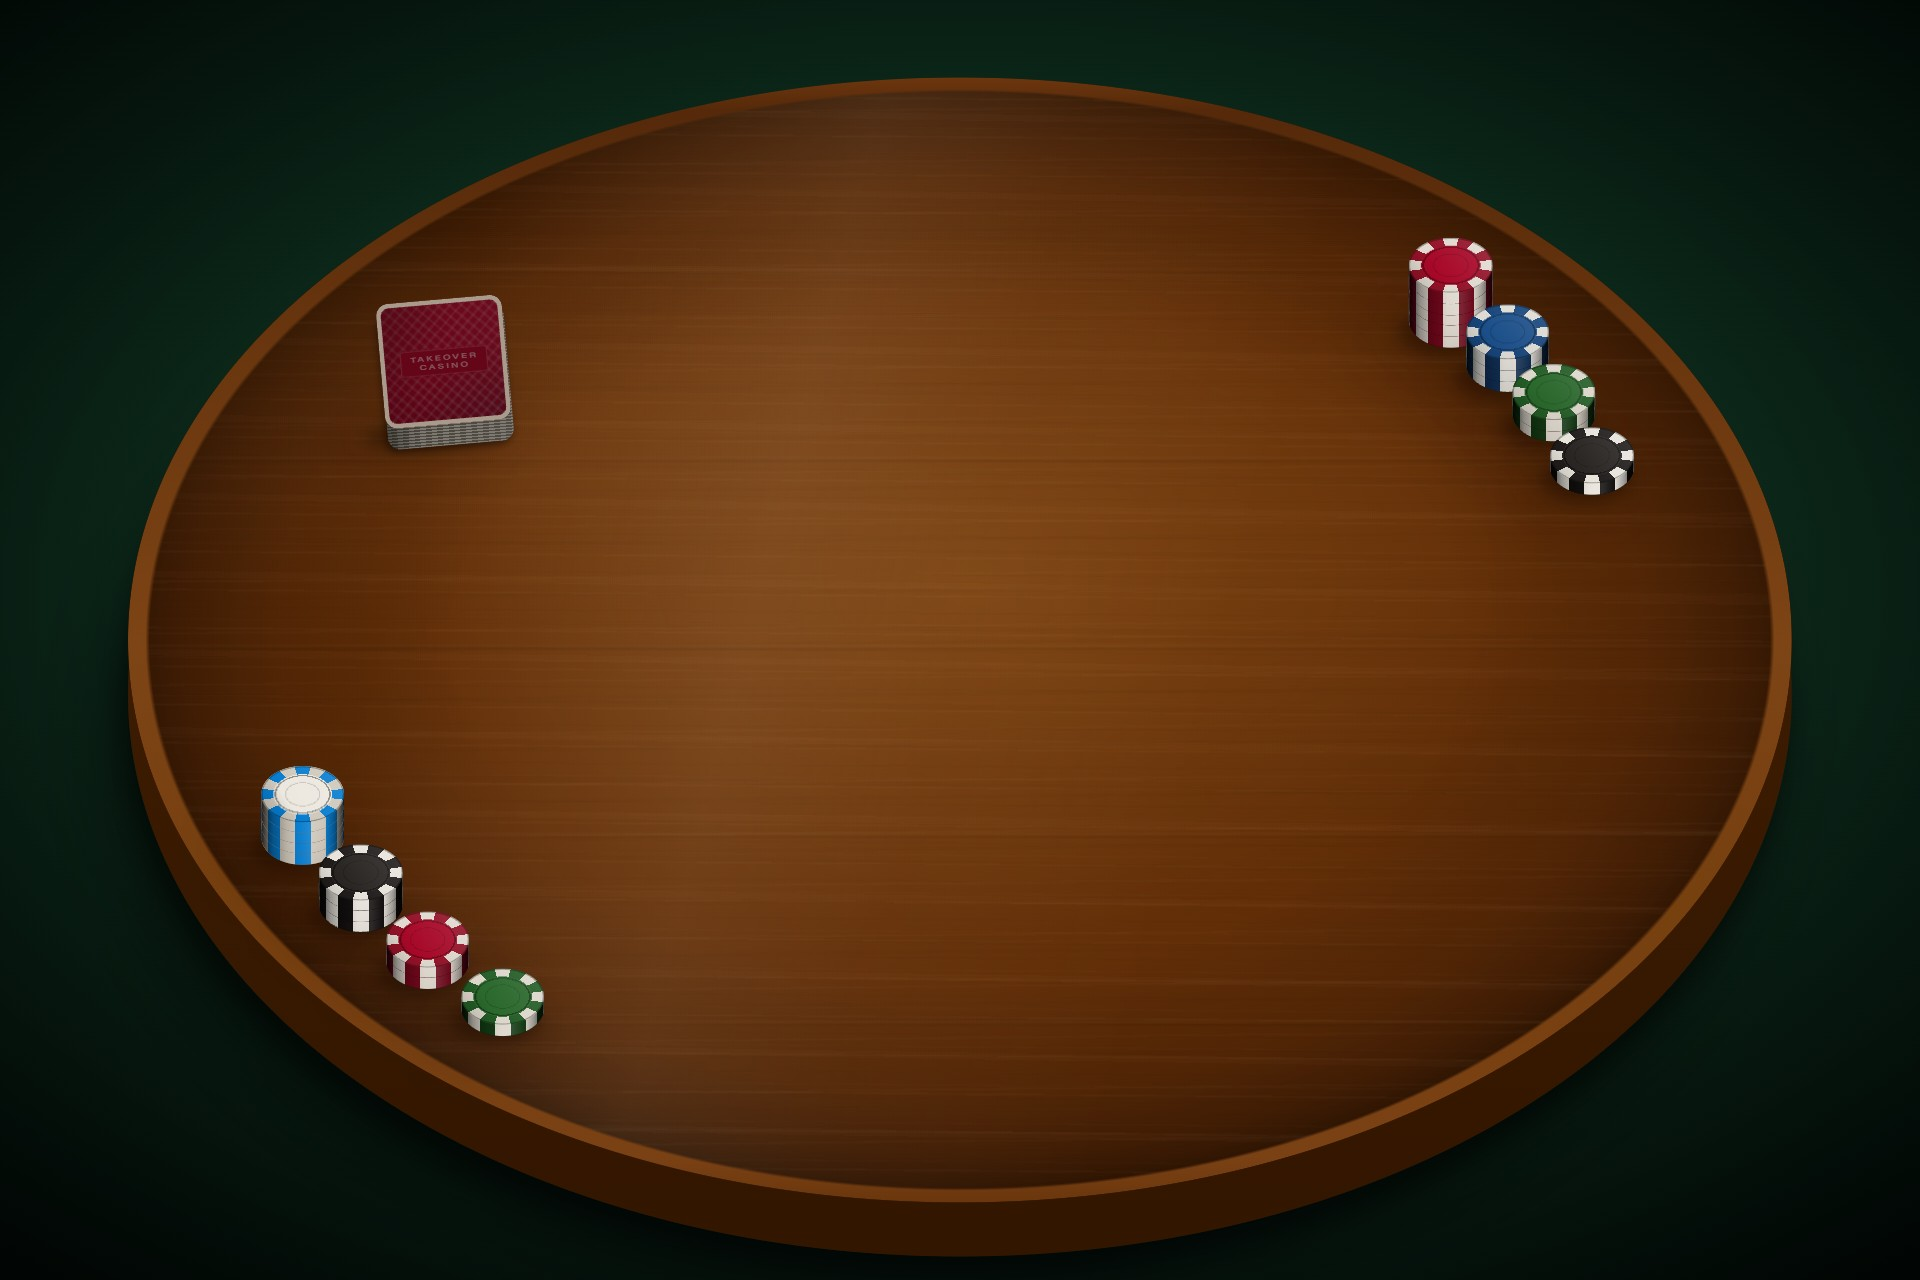
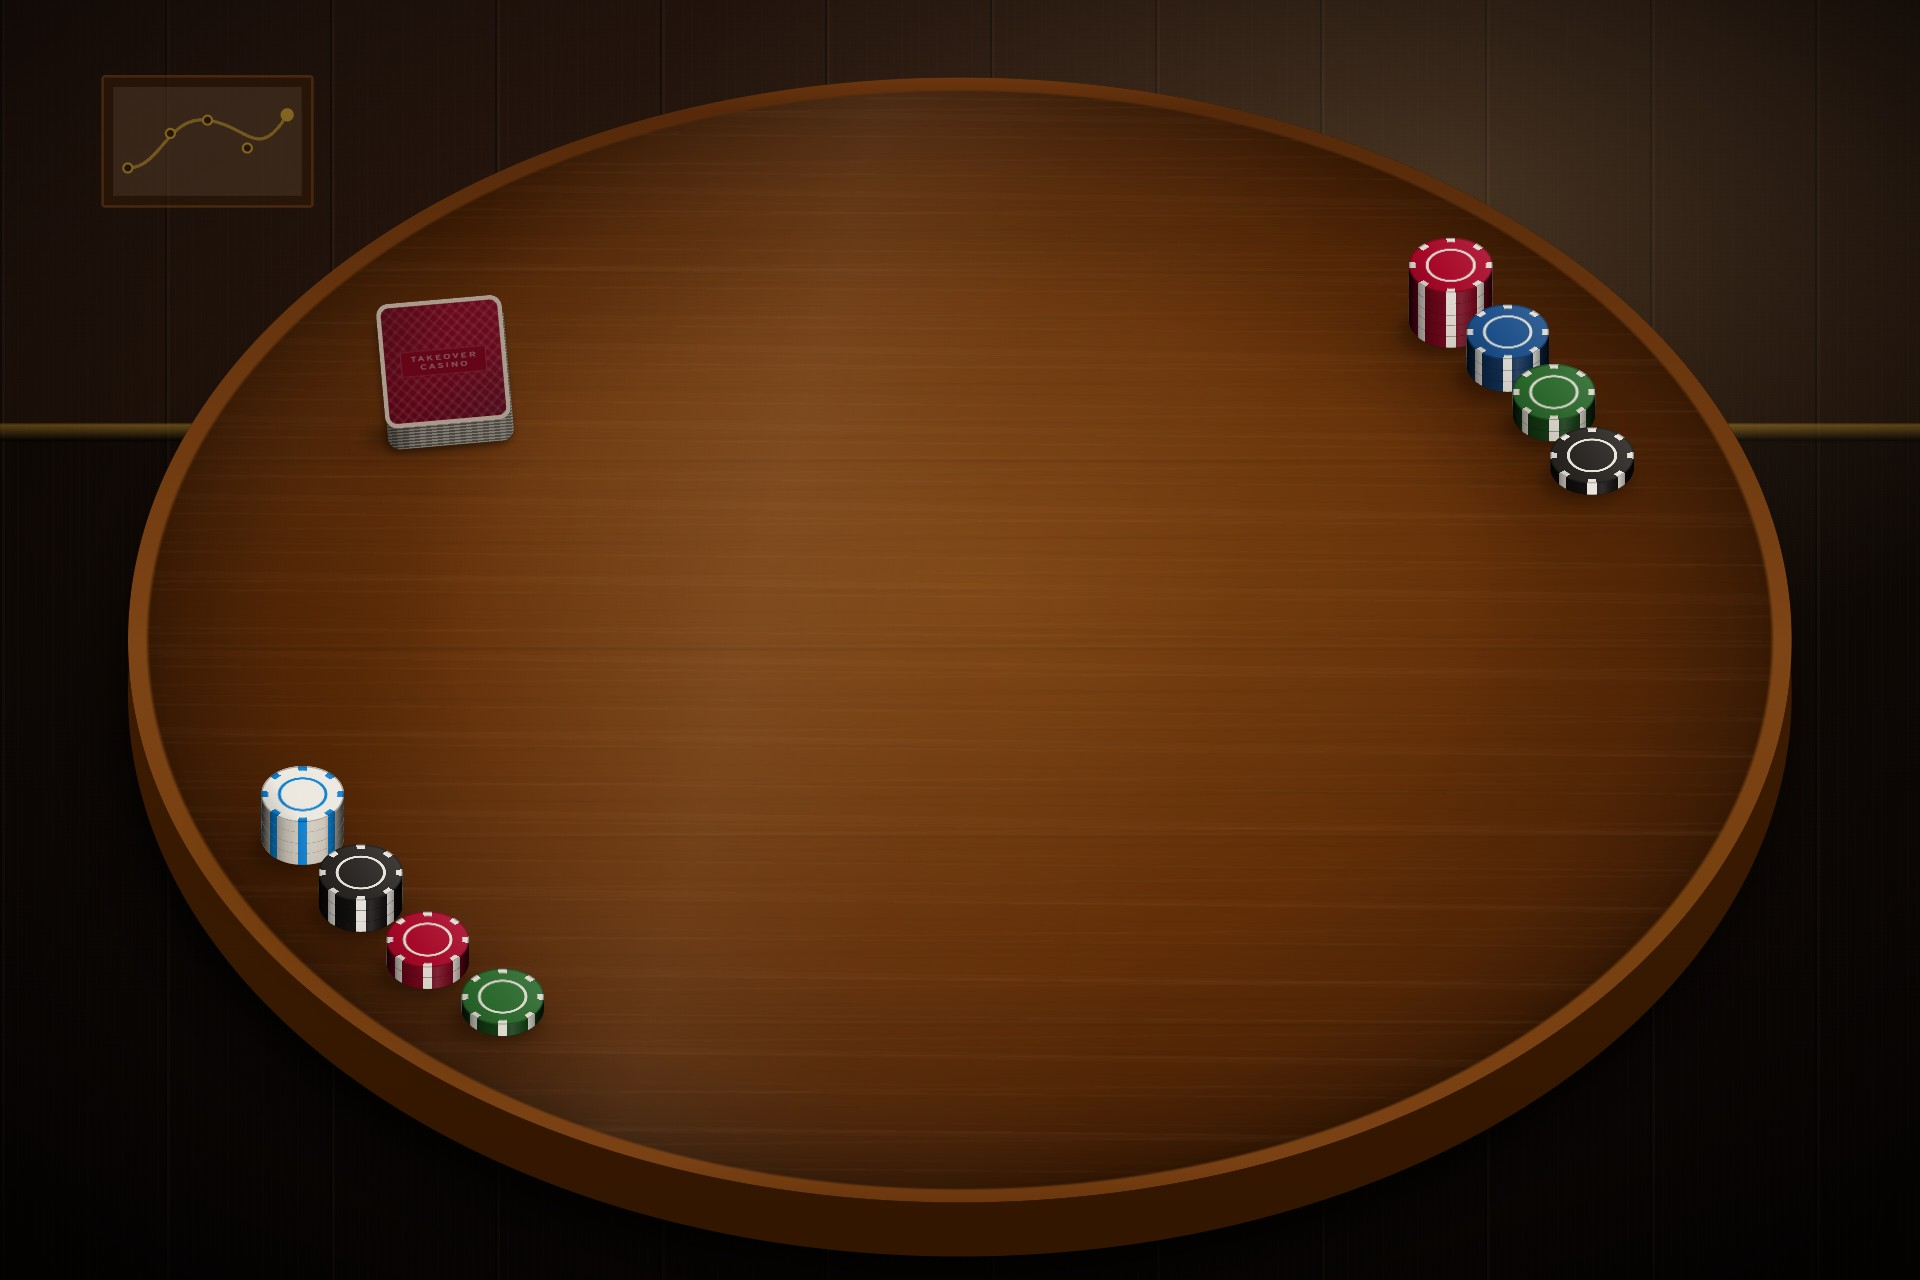
Re-render the lobby tile from the overhauled game
scripts/tile-art.mjs again: the background is now the table in the back
room with the new chips, where it was the green void; the foreground is the
current deck and chips. 1.34 MB together, under Stake's 3 MB. The README's
sizes and render date follow.

diff --git a/submission/README.md b/submission/README.md
@@ -17,11 +17,11 @@ Filenames are **mandated** by Stake and must not be changed.
 
 | File | Requirement | Ours |
 |---|---|---|
-| `RideTheBus-BG.jpg` | Environmental background, high-resolution PNG or JPG | 1920 × 1280, 152 KB |
+| `RideTheBus-BG.jpg` | Environmental background, high-resolution PNG or JPG | 1920 × 1280, 173 KB |
 | `RideTheBus-FG.png` | Feature character / key item, transparent PNG | 1600 × 1600, 1.2 MB |
 | `TakeoverCasino-Logo.png` | Provider logo, transparent PNG, legible small | 710 × 710, 726 KB |
 
-**Background + foreground must not exceed 3 MB combined.** Ours are 1.32 MB,
+**Background + foreground must not exceed 3 MB combined.** Ours are 1.34 MB,
 and `scripts/tile-art.mjs` refuses to write a pair over the limit. There is no
 documented cap on the provider logo.
 
@@ -30,7 +30,9 @@ documented cap on the provider logo.
 photographs `?dev_tile=fg` - the J, Q, K and house Ace the board deals, the
 deck's back and two chips, on a transparent ground - and the live table with
 the board's furniture hidden. Change the cards or the table and re-run it; the
-tile cannot drift from the game. `--out <dir>` renders somewhere else to look
+tile cannot drift from the game. Last rendered 2026-10-20, after the visual
+overhaul: the back room behind the table, and the chips in the guess chip's
+face. `--out <dir>` renders somewhere else to look
 first; `--cups` puts the party cups back on the table (left off by default:
 drinking props on the one image a player sees before choosing the game sit
 closest to Stake's underage-appeal line). The generated pair these replaced is
